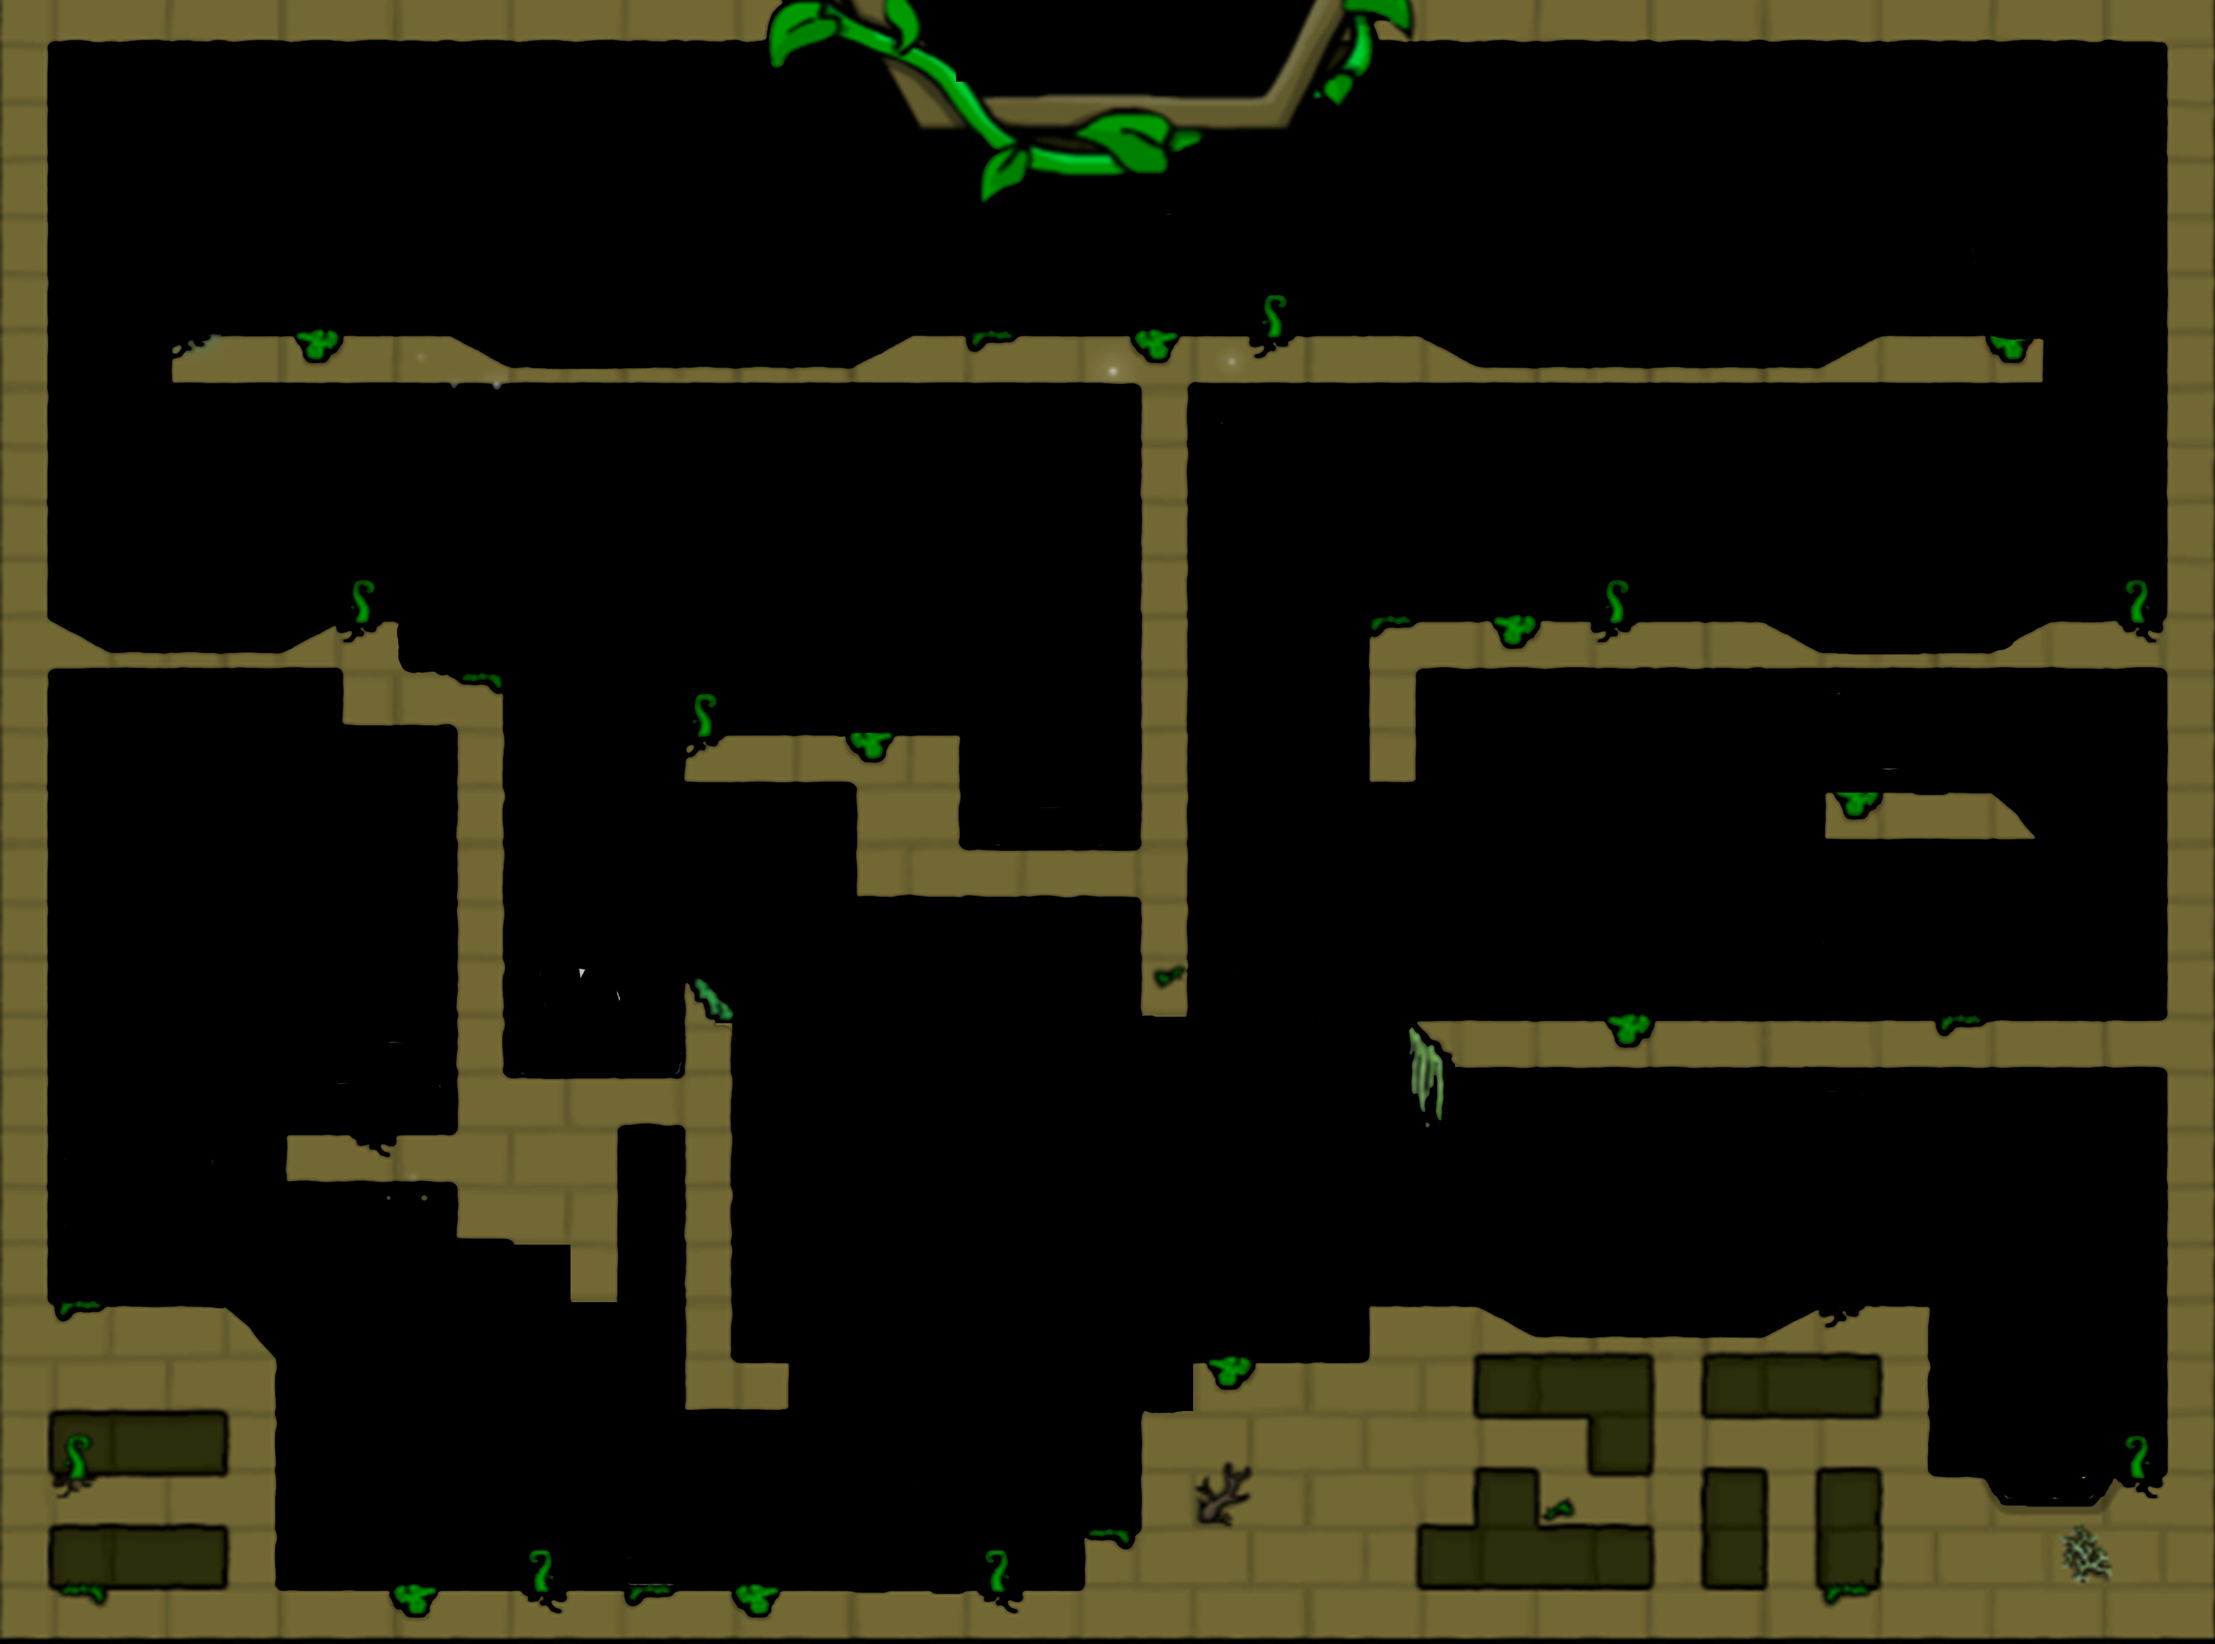
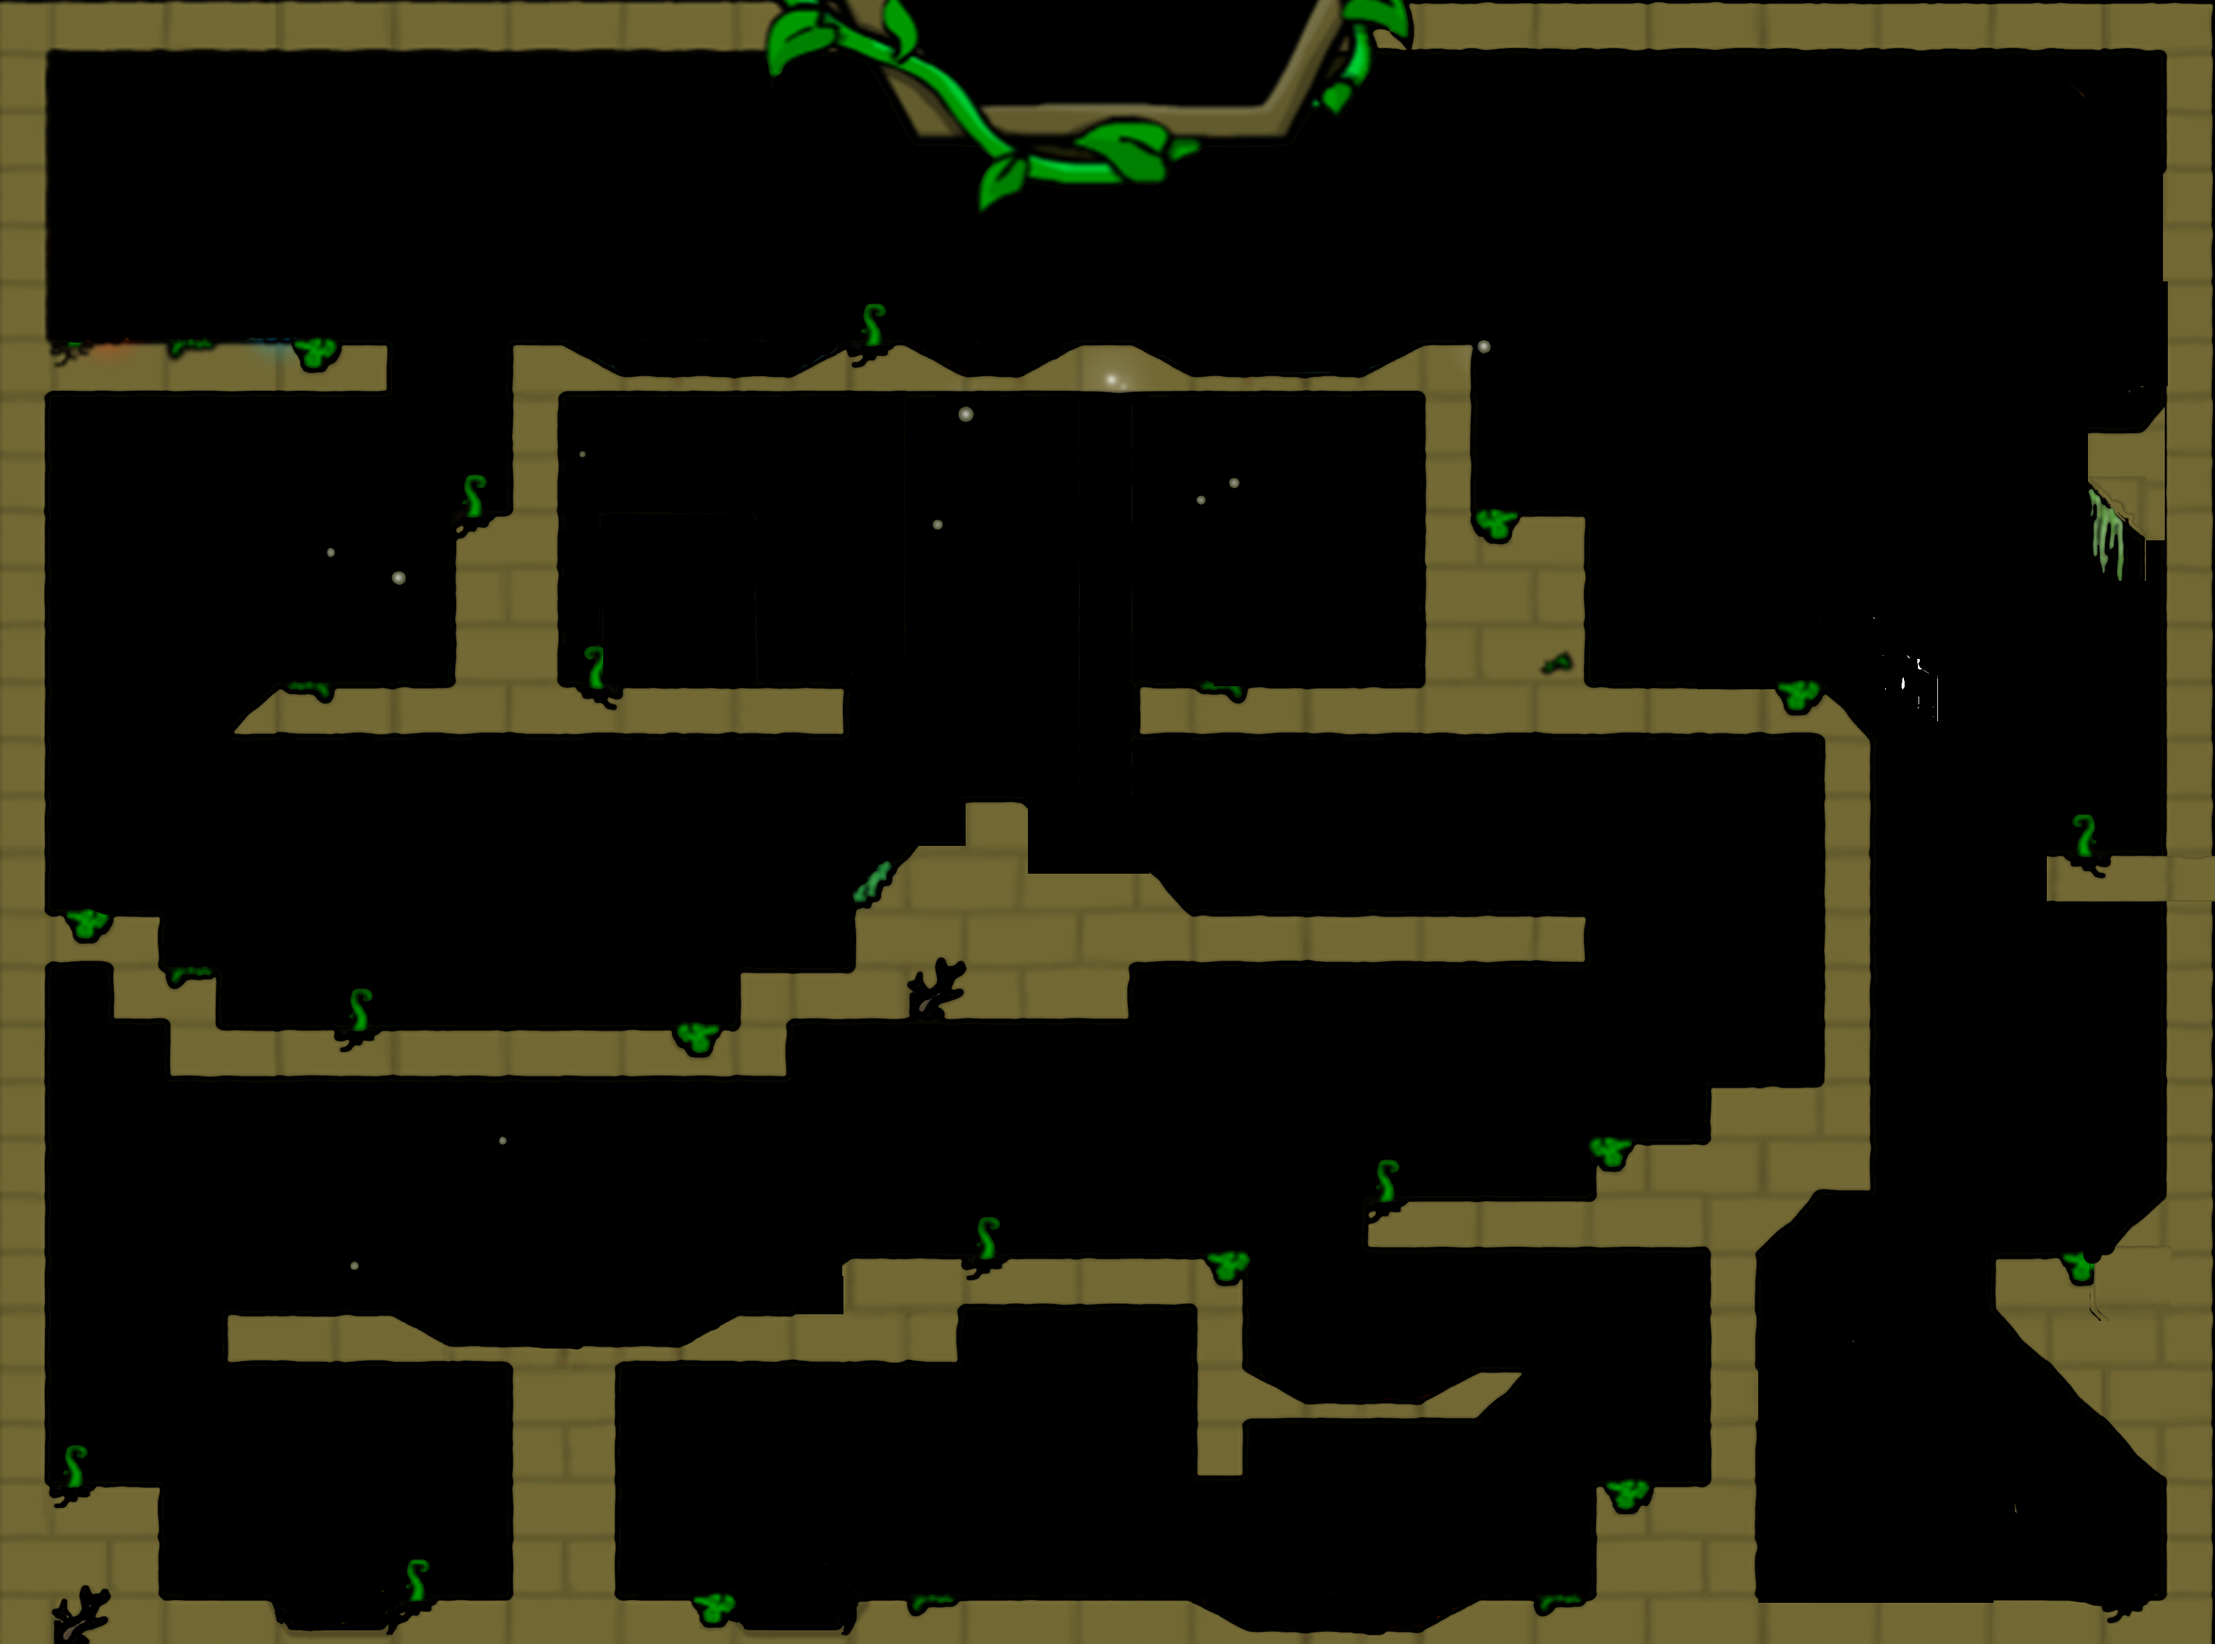
bg03_full

Changed region(s): [[0.0, 0.0, 1.0, 1.0]]

diff --git a/GAME_SFML/main.cpp b/GAME_SFML/main.cpp
@@ -66,6 +66,7 @@ int main()
 	//bg01
 
 	//bg02
+	/*
 	platfroms.push_back(Platform(nullptr, sf::Vector2f(220.0f, 278.0f), sf::Vector2f(118.0f, 1225.0f)));
 	platfroms.push_back(Platform(nullptr, sf::Vector2f(1000.0f, 30.0f), sf::Vector2f(600.0f, 1330.0f)));
 	platfroms.push_back(Platform(nullptr, sf::Vector2f(30.0f, 30.0f), sf::Vector2f(915.0f, 1290.0f)));
@@ -107,6 +108,55 @@ int main()
 	platfroms.push_back(Platform(nullptr, sf::Vector2f(30.0f, 200.0f), sf::Vector2f(496.0f, 1000.0f)));
 	platfroms.push_back(Platform(nullptr, sf::Vector2f(100.0f, 30.0f), sf::Vector2f(542.0f, 910.0f)));
 	platfroms.push_back(Platform(nullptr, sf::Vector2f(60.0f, 45.0f), sf::Vector2f(625.0f, 1145.0f)));
+	*/
+	//bg2
+	//bg3
+	platfroms.push_back(Platform(nullptr, sf::Vector2f(130.0f, 130.0f), sf::Vector2f(60.0f, 1300.0f)));
+	platfroms.push_back(Platform(nullptr, sf::Vector2f(100.0f, 30.0f), sf::Vector2f(172.0f, 1340.0f)));
+	platfroms.push_back(Platform(nullptr, sf::Vector2f(130.0f, 5.0f), sf::Vector2f(283.0f, 1355.0f)));
+	platfroms.push_back(Platform(nullptr, sf::Vector2f(240.0f, 30.0f), sf::Vector2f(471.0f, 1340.0f)));
+	platfroms.push_back(Platform(nullptr, sf::Vector2f(150.0f, 5.0f), sf::Vector2f(665.0f, 1355.0f)));
+	platfroms.push_back(Platform(nullptr, sf::Vector2f(280.0f, 30.0f), sf::Vector2f(855.0f, 1340.0f)));
+	platfroms.push_back(Platform(nullptr, sf::Vector2f(220.0f, 5.0f), sf::Vector2f(1100.0f, 1355.0f)));
+	platfroms.push_back(Platform(nullptr, sf::Vector2f(600.0f, 30.0f), sf::Vector2f(1520.0f, 1340.0f)));
+	platfroms.push_back(Platform(nullptr, sf::Vector2f(75.0f, 230.0f), sf::Vector2f(466.0f, 1230.0f)));
+	platfroms.push_back(Platform(nullptr, sf::Vector2f(255.0f, 5.0f), sf::Vector2f(460.0f, 1120.0f)));
+	platfroms.push_back(Platform(nullptr, sf::Vector2f(140.0f, 35.0f), sf::Vector2f(260.0f, 1100.0f)));
+	platfroms.push_back(Platform(nullptr, sf::Vector2f(140.0f, 35.0f), sf::Vector2f(664.0f, 1110.0f)));
+	platfroms.push_back(Platform(nullptr, sf::Vector2f(350.0f, 35.0f), sf::Vector2f(850.0f, 1060.0f)));
+	platfroms.push_back(Platform(nullptr, sf::Vector2f(30.0f, 170.0f), sf::Vector2f(1010.0f, 1130.0f)));
+	platfroms.push_back(Platform(nullptr, sf::Vector2f(180.0f, 5.0f), sf::Vector2f(1100.0f, 1170.0f)));
+	platfroms.push_back(Platform(nullptr, sf::Vector2f(30.0f, 30.0f), sf::Vector2f(1040.0f, 1155.0f)));
+	platfroms.push_back(Platform(nullptr, sf::Vector2f(50.0f, 30.0f), sf::Vector2f(1220.0f, 1155.0f)));
+	platfroms.push_back(Platform(nullptr, sf::Vector2f(140.0f, 100.0f), sf::Vector2f(1390.0f, 1275.0f)));
+	platfroms.push_back(Platform(nullptr, sf::Vector2f(30.0f, 230.0f), sf::Vector2f(1435.0f, 1150.0f)));
+	platfroms.push_back(Platform(nullptr, sf::Vector2f(290.0f, 30.0f), sf::Vector2f(1270.0f, 1015.0f)));
+	platfroms.push_back(Platform(nullptr, sf::Vector2f(120.0f, 60.0f), sf::Vector2f(1470.0f, 916.0f)));
+	platfroms.push_back(Platform(nullptr, sf::Vector2f(200.0f, 70.0f), sf::Vector2f(1415.0f, 976.0f)));
+	platfroms.push_back(Platform(nullptr, sf::Vector2f(35.0f, 400.0f), sf::Vector2f(1528.0f, 785.0f)));
+	platfroms.push_back(Platform(nullptr, sf::Vector2f(605.0f, 35.0f), sf::Vector2f(1010.0f, 775.0f)));
+	platfroms.push_back(Platform(nullptr, sf::Vector2f(200.0f, 35.0f), sf::Vector2f(835.0f,740.0f)));
+	platfroms.push_back(Platform(nullptr, sf::Vector2f(585.0f, 35.0f), sf::Vector2f(1230.0f, 580.0f)));
+	platfroms.push_back(Platform(nullptr, sf::Vector2f(60.0f, 60.0f), sf::Vector2f(809.0f, 695.0f)));
+	platfroms.push_back(Platform(nullptr, sf::Vector2f(500.0f, 35.0f), sf::Vector2f(390.0f, 870.0f)));
+	platfroms.push_back(Platform(nullptr, sf::Vector2f(330.0f, 35.0f), sf::Vector2f(780.0f, 825.0f)));
+	platfroms.push_back(Platform(nullptr, sf::Vector2f(500.0f, 35.0f), sf::Vector2f(446.0f, 585.0f)));
+	platfroms.push_back(Platform(nullptr, sf::Vector2f(170.0f, 130.0f), sf::Vector2f(89.0f, 825.0f)));
+	platfroms.push_back(Platform(nullptr, sf::Vector2f(80.0f, 140.0f), sf::Vector2f(417.0f, 500.0f)));
+	platfroms.push_back(Platform(nullptr, sf::Vector2f(270.0f, 35.0f), sf::Vector2f(180.0f, 305.0f)));
+	platfroms.push_back(Platform(nullptr, sf::Vector2f(35.0f, 225.0f), sf::Vector2f(444.0f, 400.0f)));
+	platfroms.push_back(Platform(nullptr, sf::Vector2f(705.0f, 5.0f), sf::Vector2f(780.0f, 320.0f)));
+	platfroms.push_back(Platform(nullptr, sf::Vector2f(70.0f, 35.0f), sf::Vector2f(1170.0f, 310.0f)));
+	platfroms.push_back(Platform(nullptr, sf::Vector2f(35.0f, 35.0f), sf::Vector2f(480.0f, 310.0f)));
+	platfroms.push_back(Platform(nullptr, sf::Vector2f(50.0f, 35.0f), sf::Vector2f(720.0f, 300.0f)));
+	platfroms.push_back(Platform(nullptr, sf::Vector2f(50.0f, 35.0f), sf::Vector2f(930.0f, 300.0f)));
+	//platfroms.push_back(Platform(nullptr, sf::Vector2f(35.0f, 270.0f), sf::Vector2f(1195.0f, 420.0f)));
+	platfroms.push_back(Platform(nullptr, sf::Vector2f(85.0f, 150.0f), sf::Vector2f(1265.0f, 505.0f)));
+	platfroms.push_back(Platform(nullptr, sf::Vector2f(35.0f, 1350.0f), sf::Vector2f(1810.0f, 680.0f)));
+	platfroms.push_back(Platform(nullptr, sf::Vector2f(35.0f, 1280.0f), sf::Vector2f(20.0f, 630.0f)));
+	platfroms.push_back(Platform(nullptr, sf::Vector2f(150.0f, 80.0f), sf::Vector2f(1730.0f, 1080.0f)));
+	platfroms.push_back(Platform(nullptr, sf::Vector2f(150.0f, 35.0f), sf::Vector2f(1555.0f, 730.0f)));
+
 
 
 
@@ -122,6 +172,12 @@ int main()
 	sf::RectangleShape back02(sf::Vector2f(1830.5f, 1358.5f));
 	back02.setPosition(0.0f, 0.0f);
 	back02.setTexture(&bg02);
+	//bg03
+	sf::Texture bg03;
+	bg03.loadFromFile("charecter/back03.png");
+	sf::RectangleShape back03(sf::Vector2f(1830.5f, 1358.5f));
+	back03.setPosition(0.0f, 0.0f);
+	back03.setTexture(&bg03);
 
 
 	float deltaTime = 0.0f;
@@ -212,12 +268,13 @@ int main()
 		window.clear();
 		//window.draw(back01);
 		//window.draw(back02);
+		window.draw(back03);
 		window.setView(view);
 		
 		for (Platform& platfrom : platfroms)
 			platfrom.Draw(window);
 		//window.draw(back01);
-		window.draw(back02);
+		//window.draw(back02);
 		player.Draw(window);
 
 		window.display();
